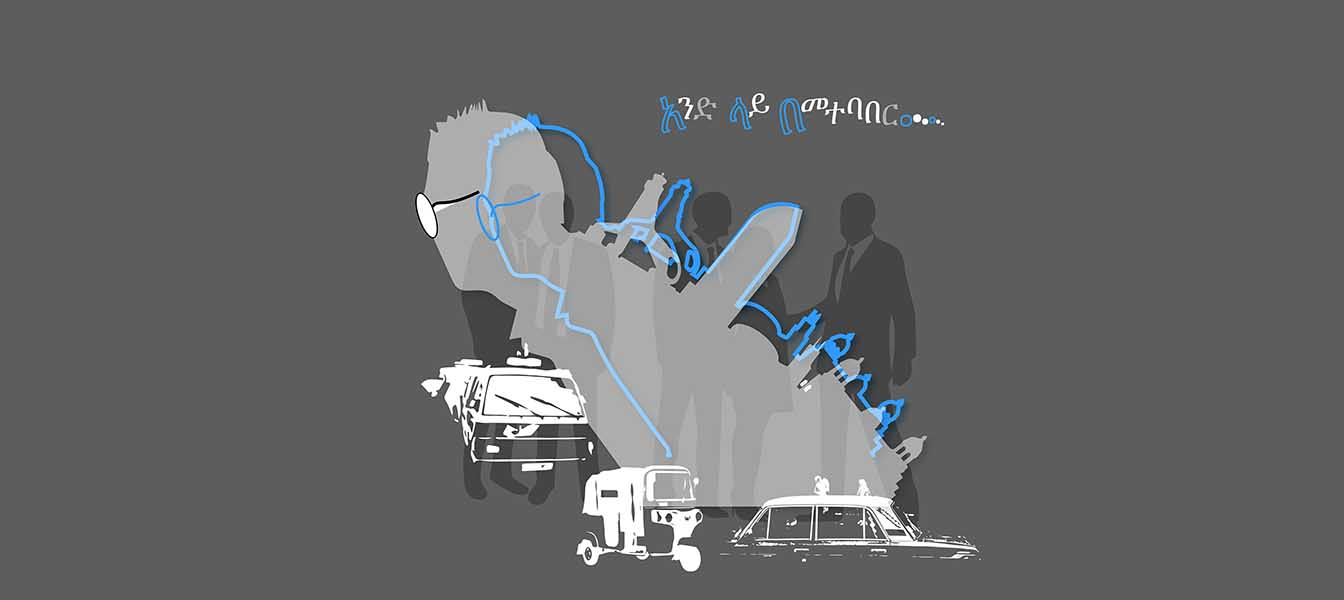
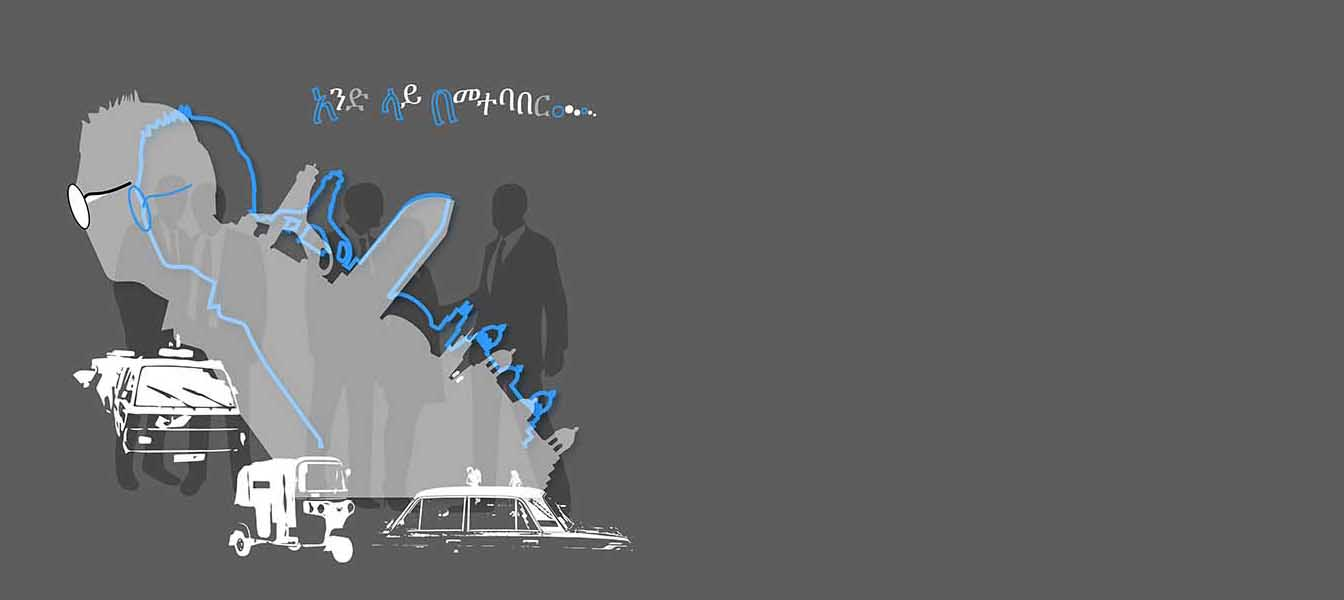
modification

diff --git a/index.html b/index.html
@@ -27,7 +27,11 @@
     <div class="main-box">
 
 <div id="main-bar">
-<p>አዲስ አበባ ከተማ ምንም እንኳን ከሌሎች የአሪካ ከተሞች ጋር ስትነጻጸር ዕድሜዋ አጭር ቢሆንም የአፈሪካ መዲና ብቻ ሳትሆን ዓለም አቀፍ የዲፕሎማቲክ መሆን ችላለች፡፡ የከተማቱ ዋና ከተመ መሆን ያልተዋተላቸው አንዳንድ ሀገራት በየጊዜው ያልተሟላውን መሰረተ ልማት፣የተንቀራፈፈውን የአገልግሎት ዘርፍ እነቀሱ በማውጣት በየጊዜው ተቀናቃኝነታቸውን ማሳየታቸው አልቀረም፡፡ ክርክሩን መሪዎቻችን ማሸነፍ የቻሉት የሚነሳው የመከራከሪያ ነትብ ስህተት በመሆኑ አልም ከሌሎች የተሻለች መሆን ስለቻለች አይደለም፡፡ ይልቁኑ አፍሪካውያን ለነጻነታቸው ያደርጉት የነበረውን ትግል ማገዝ በመቻልዋና ለአፍሪካ አንድነት መቋቋም በሰጠችው  ድጋፍ ሳቢያ መሆኑን ደጋግመን አይተናል፡፡ይህ ክርክር እስከወዲያኛው የተዘጋ አይደለም በየጊዜው የሚነሳ ብቻ ሳይሆን እንደቀደመው ጊዜ ቀደም ሲል የተዋለ ውለታ እየተጠቀሰ መሻገር ፍጹም አይቻልም፤የጎደለውን ለይቶ ማስተካከል ያስፈልጋል፡፡
+<p>
+                ይህ በ አአፕልኮ እና በ ኢአይኤቢሲ በተዘጋጀ ስልጠና ላይ የተሳተፉ ሰልጣኞች ያበለጸጉት ድህረ ገጽ ነው፡፡  <br><br>
+</p>
+<p>
+        አዲስ አበባ ከተማ ምንም እንኳን ከሌሎች የአሪካ ከተሞች ጋር ስትነጻጸር ዕድሜዋ አጭር ቢሆንም የአፈሪካ መዲና ብቻ ሳትሆን ዓለም አቀፍ የዲፕሎማቲክ መሆን ችላለች፡፡ የከተማቱ ዋና ከተመ መሆን ያልተዋተላቸው አንዳንድ ሀገራት በየጊዜው ያልተሟላውን መሰረተ ልማት፣የተንቀራፈፈውን የአገልግሎት ዘርፍ እነቀሱ በማውጣት በየጊዜው ተቀናቃኝነታቸውን ማሳየታቸው አልቀረም፡፡ ክርክሩን መሪዎቻችን ማሸነፍ የቻሉት የሚነሳው የመከራከሪያ ነትብ ስህተት በመሆኑ አልም ከሌሎች የተሻለች መሆን ስለቻለች አይደለም፡፡ ይልቁኑ አፍሪካውያን ለነጻነታቸው ያደርጉት የነበረውን ትግል ማገዝ በመቻልዋና ለአፍሪካ አንድነት መቋቋም በሰጠችው  ድጋፍ ሳቢያ መሆኑን ደጋግመን አይተናል፡፡ይህ ክርክር እስከወዲያኛው የተዘጋ አይደለም በየጊዜው የሚነሳ ብቻ ሳይሆን እንደቀደመው ጊዜ ቀደም ሲል የተዋለ ውለታ እየተጠቀሰ መሻገር ፍጹም አይቻልም፤የጎደለውን ለይቶ ማስተካከል ያስፈልጋል፡፡
         10ኛው መሪ ፕላን ከተማቱ በ2032 ተመራች ዓለም አቀፍ ከተማ የማድረግ ራዕይ ሰንቋል፡፡ይህን ራዕይ ዕውን ማድረግ የሚያስችሉ ግቦችና ተግባራት በየጥናት ርዕሱ በከተማ ልማት ፕላን መስክ የተሰማሩ ባለሙያዎች ያጠኗቸውን ፈንጠቂ ትናቶች መሰረት ተለይተው በስልታዊ ፕላኑ ተካትተው ተግባራዊ መሆን ጀምረዋል፡፡ የከተማ ፕላን ጉዳይ ስፓሺያል ጉዳ ብቻ አይደለም፤ ከሰው ልጅ አስተሳሰብ ጋር ቁርኝት ያላቸው ከመሬትና ከገጸ ምድር ጉዳዮች በላ የሆኑ እጅግ ጠናና ጉዳዮችን የሚይዝ ነው፡፡ 
         </p>
 </div>

diff --git a/task1.html b/task1.html
@@ -9,7 +9,7 @@
 <link rel="stylesheet" href="cssday5.css">
 
 <body>
-    
+
 <nav id="navbar">
 <div class="container">
         <ul>
@@ -25,7 +25,7 @@
 <div id="main-barr">
 <p>
     DAwIT will modify this: 
-    
+
     <h1>ከተሜነት</h1>
         1.መግቢያ 
         አዲስ አበባ ከተማ ምንም እንኳን ከሌሎች የአሪካ ከተሞች ጋር ስትነጻጸር ዕድሜዋ አጭር ቢሆንም የአፈሪካ መዲና ብቻ ሳትሆን ዓለም አቀፍ የዲፕሎማቲክ መሆን ችላለች፡፡ የከተማቱ ዋና ከተመ መሆን ያልተዋተላቸው አንዳንድ ሀገራት በየጊዜው ያልተሟላውን መሰረተ ልማት፣የተንቀራፈፈውን የአገልግሎት ዘርፍ እነቀሱ በማውጣት በየጊዜው ተቀናቃኝነታቸውን ማሳየታቸው አልቀረም፡፡ ክርክሩን መሪዎቻችን ማሸነፍ የቻሉት የሚነሳው የመከራከሪያ ነትብ ስህተት በመሆኑ አልም ከሌሎች የተሻለች መሆን ስለቻለች አይደለም፡፡ ይልቁኑ አፍሪካውያን ለነጻነታቸው ያደርጉት የነበረውን ትግል ማገዝ በመቻልዋና ለአፍሪካ አንድነት መቋቋም በሰጠችው  ድጋፍ ሳቢያ መሆኑን ደጋግመን አይተናል፡፡ይህ ክርክር እስከወዲያኛው የተዘጋ አይደለም በየጊዜው የሚነሳ ብቻ ሳይሆን እንደቀደመው ጊዜ ቀደም ሲል የተዋለ ውለታ እየተጠቀሰ መሻገር ፍጹም አይቻልም፤የጎደለውን ለይቶ ማስተካከል ያስፈልጋል፡፡

diff --git a/task2.html b/task2.html
@@ -40,16 +40,6 @@
 
 
 
-<p>  
-    <h4>
-    Lorem ipsum dolor sit, amet consectetur adipisicing elit. 
-    Omnis officia rerum quaerat mollitia. Dolorum earum, 
-    doloribus repellat accusamus ipsam, 
-    corrupti tempora voluptatum omnis velit voluptates commodi? 
-    Molestias aperiam ullam neque?
-</h4>
-</p>
-
 
 
 

diff --git a/cssday5.css b/cssday5.css
@@ -17,11 +17,12 @@ h4 {
    
 }
 #main-bar{
-    float: left;
-    width: 35%;
+    float: right;
+    width: 45%;
     /* background-color: dimgray; */
     
-    padding: 40px;
+    padding: 100px;
+    padding-top: 50px;
     box-sizing: border-box;
     /* border:1px solid #f4f4f4; */
 text-align: justify;
